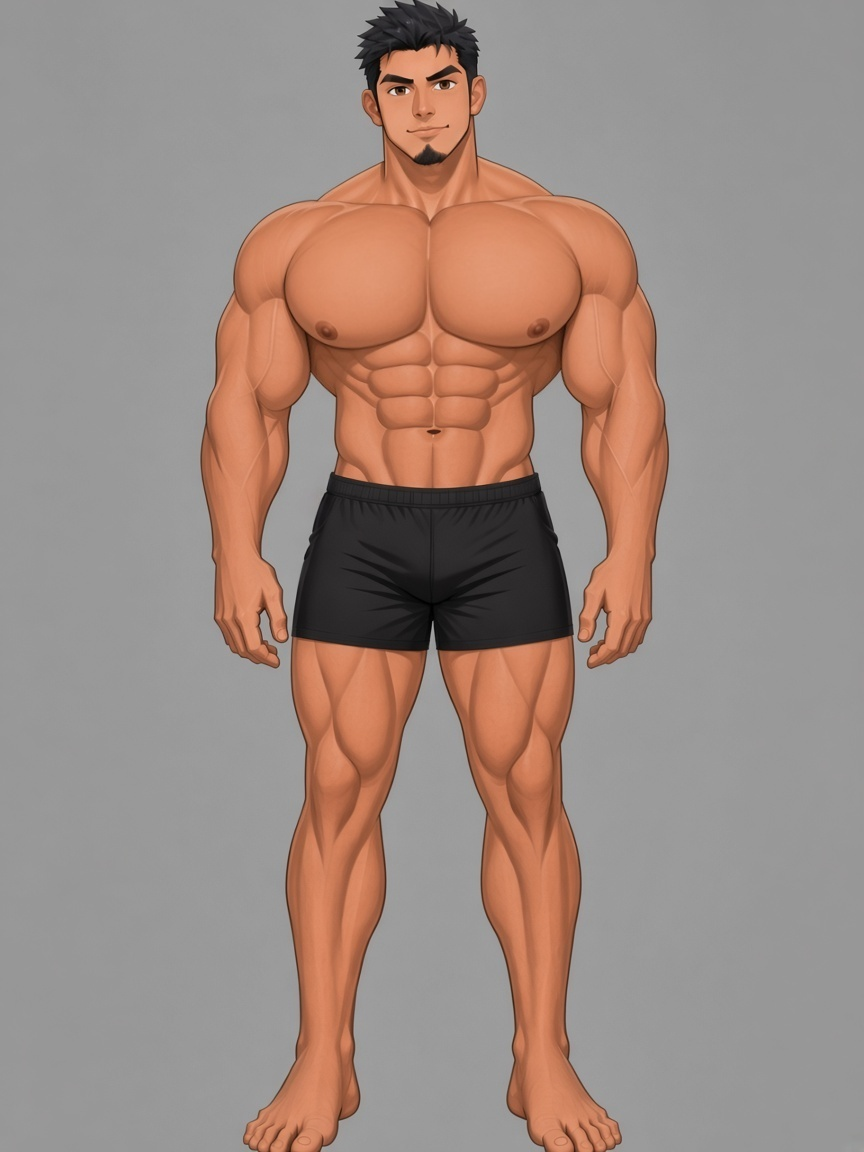
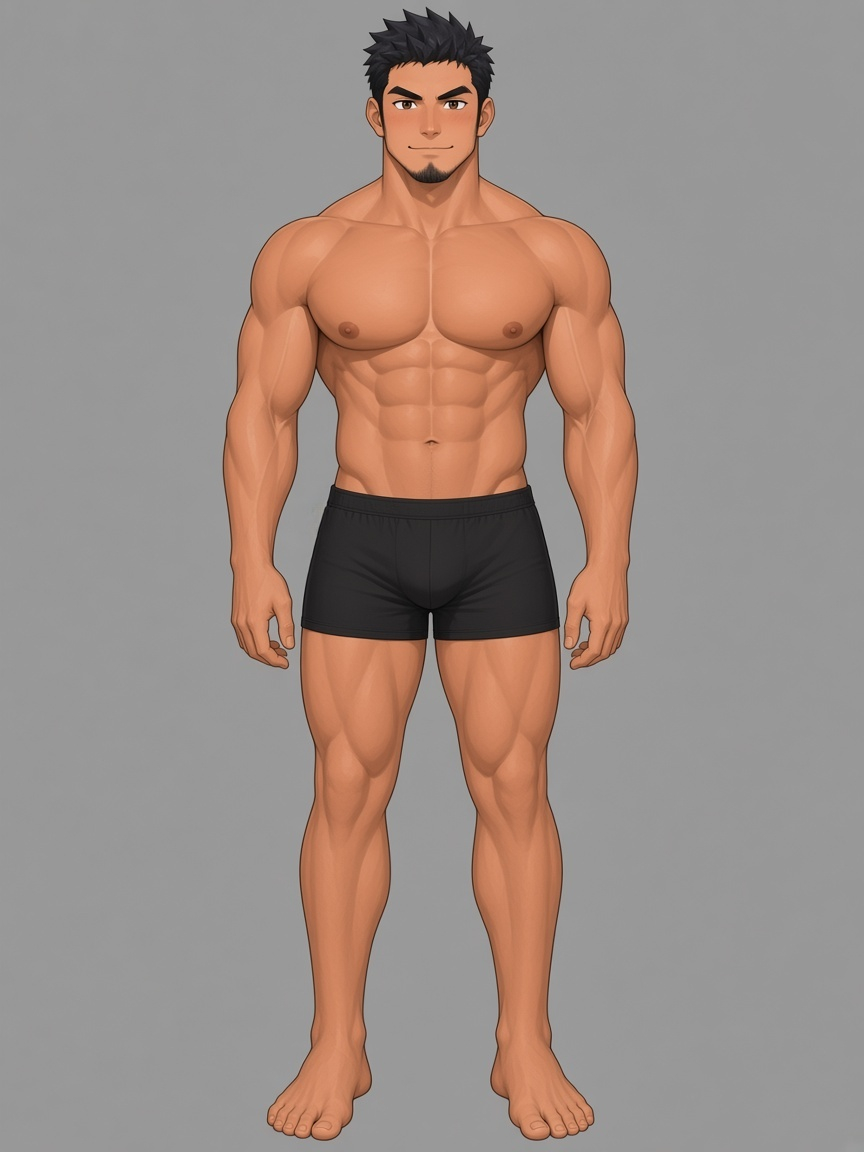
fix: 胸收小，上胸抬高，下缘不再下垂
最鼓的位置移到上胸，下缘缩短收回腹肌。

Changed region(s): [[0.2188, 0.0, 0.7812, 1.0]]

diff --git a/人物设定图/设定说明.md b/人物设定图/设定说明.md
@@ -7,7 +7,7 @@
 ## 识别点
 
 - 脸：短碎发。眼往侧看，深棕色。下颌收尖，下巴有一小撮山羊胡，颊侧淡胡茬。
-- 体：高，腿长。上胸是最鼓的位置，侧面能看出明显前突。下缘收回腹部，不垂成一团。肩宽，腹肌清楚。
+- 体：高，腿长。胸比大球那版收小。上胸抬高，是最鼓的位置。下缘短，收回腹肌，不往下坠。肩宽，腹肌清楚。
 - 肤色：暖小麦色。渲染用哑光，不要油亮高光。
 
 ## 图
